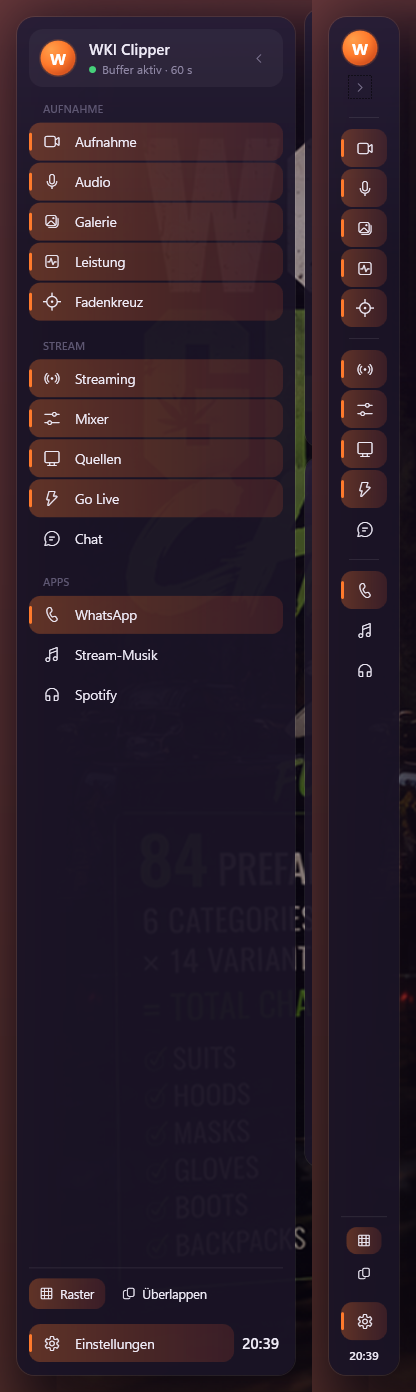
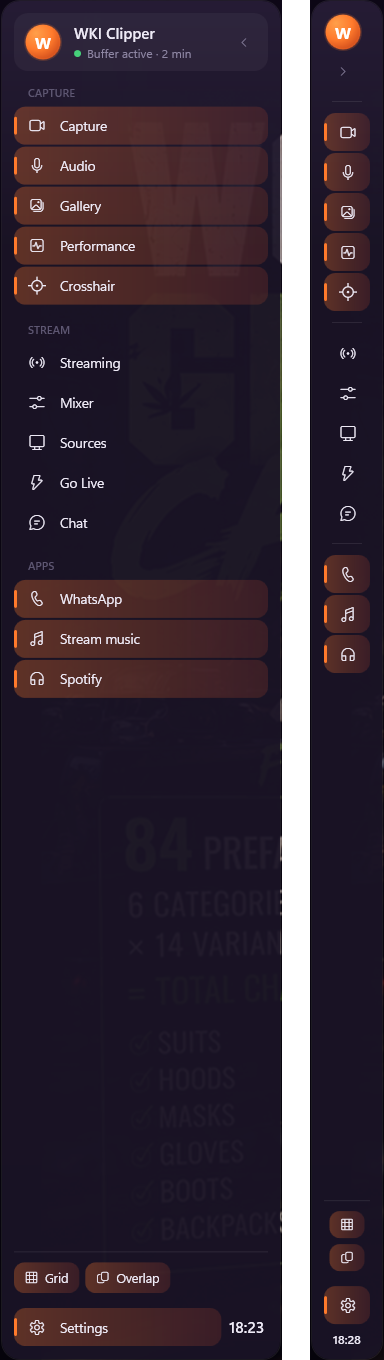
docs(readme): new 0.16.0 screenshots in English
- Board, sidebar (expanded + icon rail), capture with the RAM buffer status,
  audio, performance and crosshair (Applies to) retaken with the English UI.
- New: replay buffer settings, sound cues, controller combos, gallery row menu
  (Trim / Discord) and the Trim editor.
- settings.png replaced by hotkeys.png; captions and alt texts updated.

diff --git a/README.md b/README.md
@@ -10,9 +10,10 @@ on your controller. No account, no telemetry, no cloud.
 
 ![The widget board: sidebar on the left, widgets over the dimmed desktop](docs/screenshots/board.png)
 
-<sub>The widget board with `Ctrl+Alt+G`. The empty space in the middle is the WhatsApp widget —
-it is invisible to every capture, this screenshot included. The UI starts in German;
-switch to English under Settings → About.</sub>
+<sub>The widget board with `Ctrl+Alt+G`. The empty space at the top right is the WhatsApp
+widget — it is invisible to every capture, this screenshot included; the numbers in the
+corner are the performance overlay. The UI starts in German; switch to English under
+Settings → About.</sub>
 
 ## Hotkeys
 
@@ -29,12 +30,12 @@ switch to English under Settings → About.</sub>
 
 All hotkeys are rebindable in Settings → Hotkeys (press-to-bind, with collision checks).
 
-<img src="docs/screenshots/settings.png" height="320" alt="Settings widget, Hotkeys tab">
-
 ### Controller
 
 Hold a button combination on an Xbox controller to run the same action as the hotkey —
 also while the game has focus. Out of the box, **View + Menu** saves a clip like `F9`.
+
+<img src="docs/screenshots/hotkeys.png" height="360" alt="Settings → Hotkeys → Controller: combos per action, hold time and Learn combo">
 
 - **Actions:** save clip (`F9`), screenshot (`F10`) and recording start/stop (`Ctrl+F9`),
   each with its own combo.
@@ -88,13 +89,14 @@ switching Windows between 100, 125 and 150 % keeps your layout where you put it.
 | | **Stream music** | Music player for the stream with separate stream/monitor levels |
 | | **Spotify** | Your Spotify app: compact player or the full Spotify interface |
 
-![Gallery widget: clips, recordings, GIFs and screenshots sorted by game](docs/screenshots/gallery.png)
+![Gallery widget: favourites, notes and the row menu with Trim and Discord compress](docs/screenshots/gallery.png)
 
 ## Capture
 
 <p>
-  <img src="docs/screenshots/capture.png" height="320" alt="Capture widget: what gets clipped next">
-  <img src="docs/screenshots/audio.png" height="320" alt="Audio widget: sync offset and game-only audio">
+  <img src="docs/screenshots/capture.png" height="340" alt="Capture widget: target, audio coupling and the live buffer status (here 2 min in RAM)">
+  <img src="docs/screenshots/audio.png" height="340" alt="Audio widget: separate mic track, sync offset and game-only audio">
+  <img src="docs/screenshots/sounds.png" height="340" alt="Audio widget: sound cues with volume, output device and own WAV per cue">
 </p>
 
 | Mode | Behaviour |
@@ -135,6 +137,8 @@ because it ignores Windows' capture exclusion.
 `F9` saves the last **15 seconds to 30 minutes** — pick the length under Settings → Video →
 Replay buffer. The same page shows a live estimate of what that length costs in RAM or on
 disk (about 6–7 GB for 30 minutes at the default quality, up to ~25 GB at *Very high*).
+
+<img src="docs/screenshots/replay.png" height="360" alt="Settings → Video → Replay buffer: length with RAM estimate, own length per game, buffer storage">
 
 - **Buffer storage:** *Automatic* keeps the lookback in **RAM** — no files, no SSD wear,
   nothing in Explorer — while it fits the RAM budget (the smaller of 2 GB and 15 % of your
@@ -200,6 +204,8 @@ sit in the `…` menu of each row (also on right-click).
   (10 MB – 1 GB) and *Only compress while no game is in the foreground* (off by default —
   compressing costs FPS) are under Settings → About → Discord.
 
+<img src="docs/screenshots/trim.png" height="420" alt="Trim… editor: preview, timeline with start and end marks, fast or exact cut">
+
 ## Performance overlay
 
 Bare numbers — no window, a soft shadow for legibility — in a screen corner over the game,
@@ -232,13 +238,13 @@ clock, voltage and VRAM clock come from the same interface and appear only when 
 reports a value. CPU temperature is deliberately not shown: Windows only exposes it
 through a kernel driver.
 
-<img src="docs/screenshots/performance.png" height="480" alt="Performance widget with the overlay settings">
+<img src="docs/screenshots/performance.png" height="360" alt="Performance widget: FPS (once a game is detected), CPU and GPU load, GPU temperature and fan, GPU and VRAM clock">
 
 ## Crosshair
 
 Import your own PNGs into a small library, pick one, place it, toggle it with `Ctrl+Alt+C`.
 
-<img src="docs/screenshots/crosshair.png" align="right" height="420" alt="Crosshair widget: library, grid and image adjustments">
+<img src="docs/screenshots/crosshair.png" align="right" height="420" alt="Crosshair widget: Applies to (per-game profile), library, grid and image adjustments">
 
 - **Never in the footage** — excluded from every capture, while you still see it.
 - **Click-through while playing**; draggable only while the board is open.
